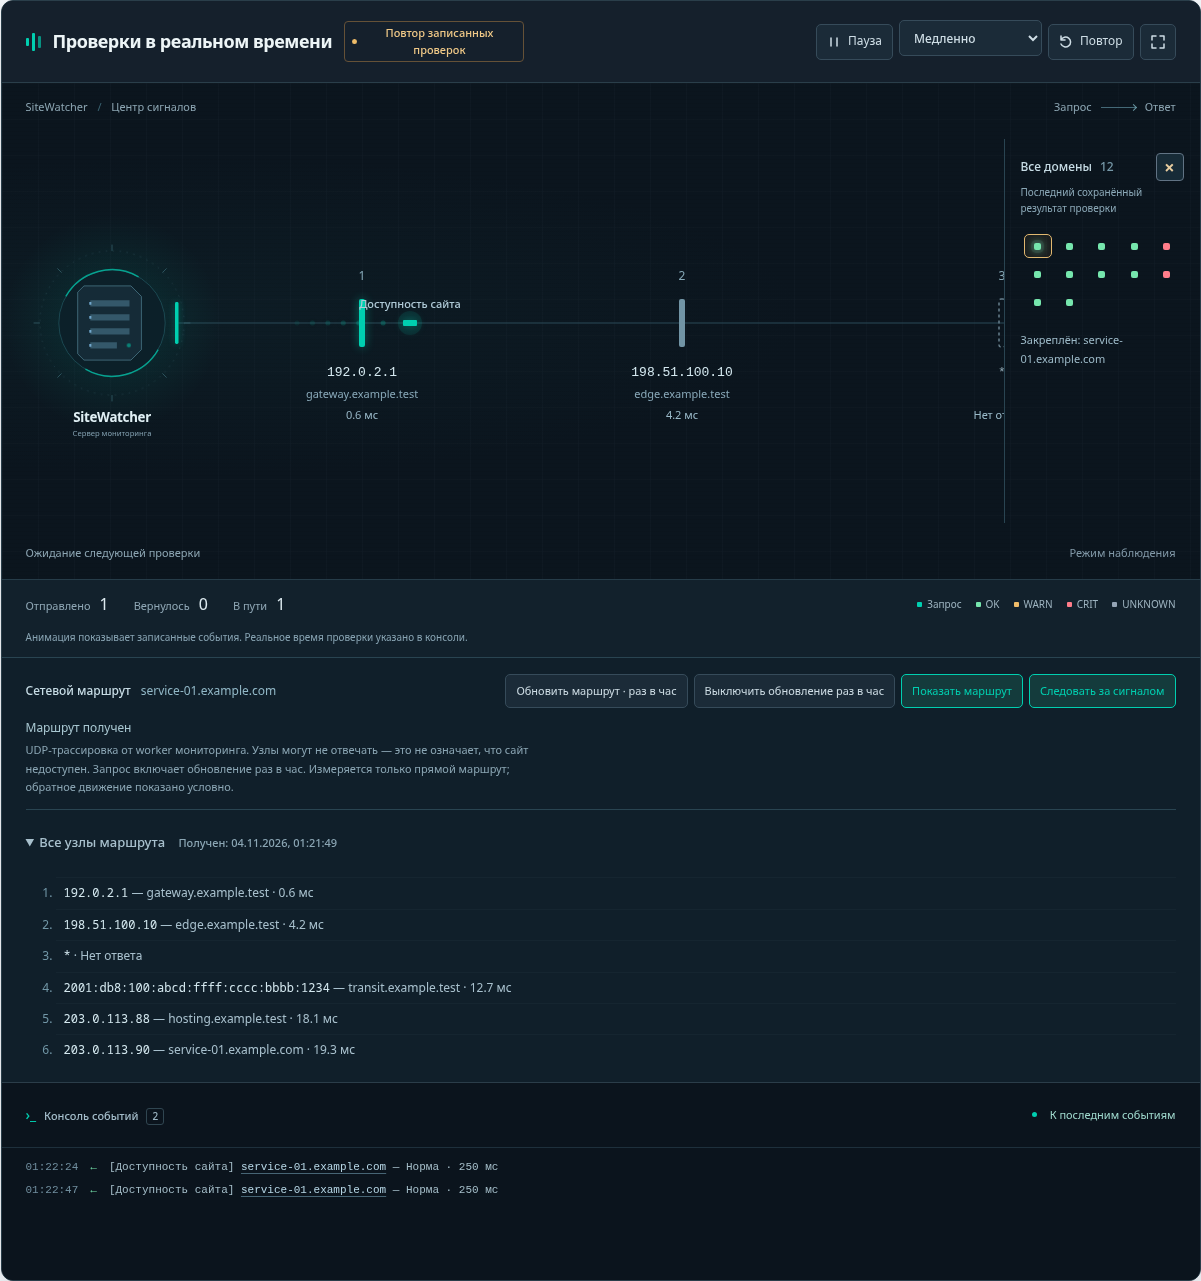
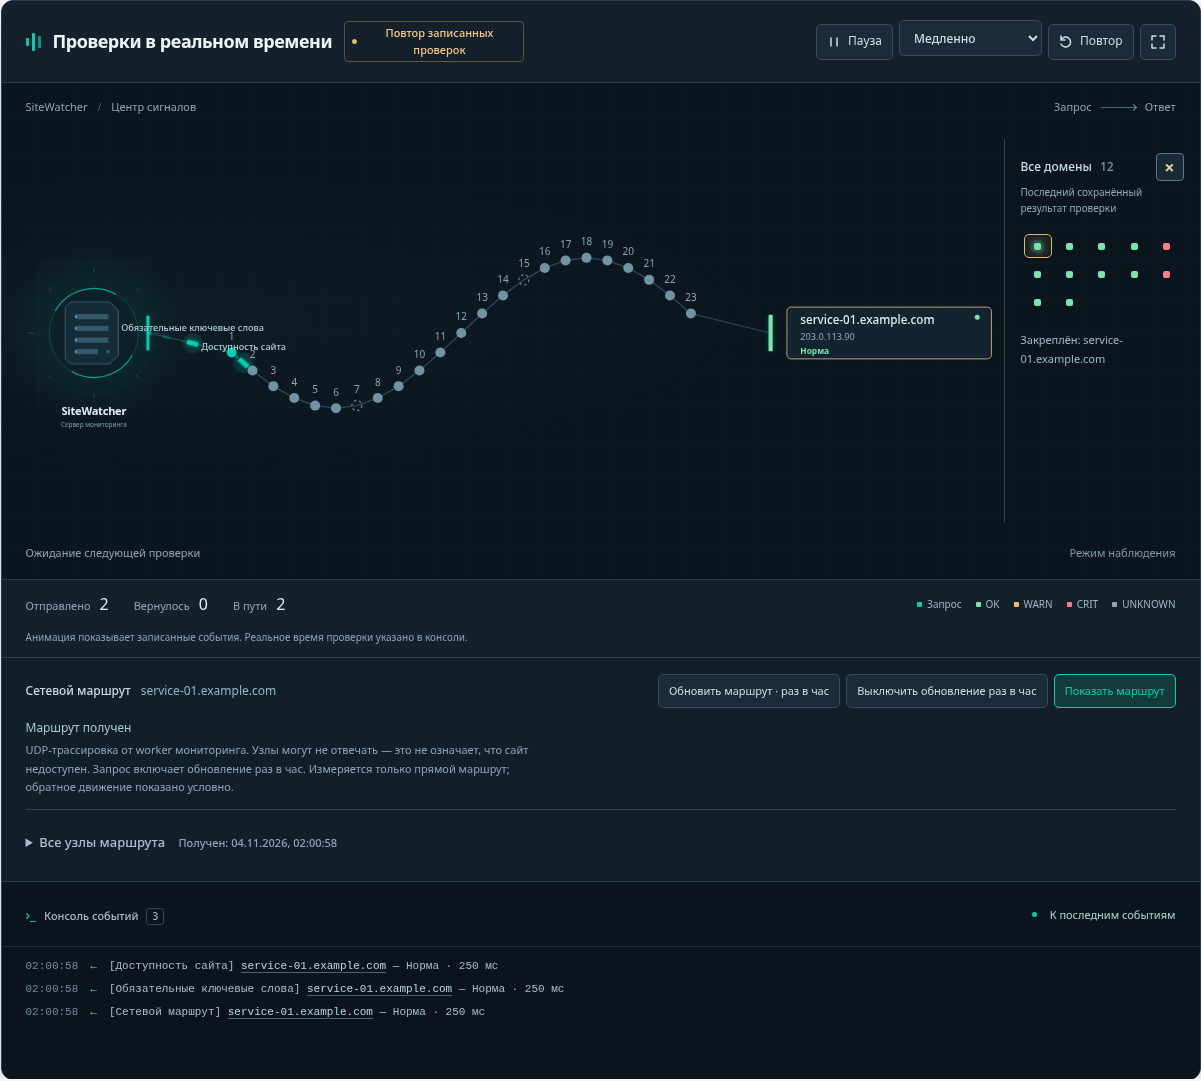
fix: fit network routes into a single scene

diff --git a/sitewatcher/webapp/static/sitewatcher/route_view.js b/sitewatcher/webapp/static/sitewatcher/route_view.js
@@ -16,7 +16,6 @@
       this.domains = new Map();
       this.selectedName = null;
       this.desired = false;
-      this.following = true;
       this.active = false;
       this.geometry = null;
       this.signature = '';
@@ -31,22 +30,7 @@
       this.find('[data-route-disable]')?.addEventListener('click', () => this.save('disable'));
       this.find('[data-route-toggle]')?.addEventListener('click', () => {
         this.desired = !this.desired;
-        this.following = true;
-        this.render();
-      });
-      this.find('[data-route-follow]')?.addEventListener('click', () => {
-        this.following = true;
-        this.paintFollow();
-      });
-      const suspend = () => {
-        this.following = false;
-        this.paintFollow();
-      };
-      this.scroll?.addEventListener('wheel', suspend, {passive: true});
-      this.scroll?.addEventListener('touchstart', suspend, {passive: true});
-      this.scroll?.addEventListener('pointerdown', suspend, {passive: true});
-      this.scroll?.addEventListener('keydown', event => {
-        if (['ArrowLeft', 'ArrowRight', 'Home', 'End', 'PageUp', 'PageDown'].includes(event.key)) suspend();
+          this.render();
       });
       this.paintControls();
     }
@@ -61,7 +45,6 @@
     select(name) {
       if (this.selectedName !== name) this.message = '';
       this.selectedName = name || null;
-      this.following = true;
       this.render();
     }
     reset() {
@@ -70,10 +53,14 @@
       this.selectedName = null;
       this.domains.clear();
       this.desired = false;
-      this.following = true;
       this.message = '';
       this.render();
       if (this.scroll) this.scroll.scrollLeft = 0;
+    }
+    resize(width) {
+      if (width <= 0 || this.compact === (width < 700)) return;
+      this.compact = width < 700;
+      this.render();
     }
     route() { return this.domains.get(this.selectedName)?.route; }
     hops() {
@@ -90,7 +77,7 @@
       const hops = this.hops();
       const active = Boolean(this.desired && this.selectedName && hops.length && this.svg);
       const result = route?.result;
-      const signature = active ? JSON.stringify([this.selectedName, result]) : '';
+      const signature = active ? JSON.stringify([this.selectedName, result, Boolean(this.compact)]) : '';
       const changed = this.active !== active || this.signature !== signature;
       const previousGeometry = this.geometrySignature || '';
       this.active = active;
@@ -111,11 +98,16 @@
       // A responding destination belongs to the existing domain card, not a second router.
       const routers = result.reached && hops.at(-1).ip === result.destination_ip
         ? hops.slice(0, -1) : hops;
-      const hub = {x: 110, y: 200, scale: .7};
+      const compact = Boolean(this.compact);
+      const hub = compact ? {x: 80, y: 75, scale: .65} : {x: 110, y: 240, scale: .7};
+      const target = compact ? {x: 350, y: 550} : {x: 940, y: 240};
       const points = [{x: hub.x + 95 * hub.scale, y: hub.y}];
       routers.forEach((hop, index) => {
-        const x = 360 + index * 320;
-        const y = hub.y;
+        const fraction = (index + 1) / (routers.length + 1);
+        const row = Math.floor(index / 4);
+        const column = row % 2 ? 3 - index % 4 : index % 4;
+        const x = compact ? 180 + column * 110 : 250 + fraction * 600;
+        const y = compact ? 200 + row * 50 : hub.y + Math.sin(fraction * Math.PI * 2) * 90;
         points.push({x, y});
         const group = svgElement('g', {class: 'scene-route-hop', transform: `translate(${x} ${y})`});
         if (!hop.ip) group.classList.add('is-silent');
@@ -124,20 +116,21 @@
           ? `${hop.rtt_ms.toFixed(1)} ${this.text('ms')}` : this.text('noResponse');
         group.append(
           svgElement('title', {}, `${this.text('hop')} ${hop.ttl}: ${ip} ${hop.hostname || ''} · ${rtt}`),
-          svgElement('rect', {class: 'scene-route-paddle', x: -3, y: -24, width: 6, height: 48, rx: 2}),
-          svgElement('text', {class: 'scene-route-ttl', y: -43, 'text-anchor': 'middle'}, String(hop.ttl)),
-          svgElement('text', {class: 'scene-route-ip', y: 53, 'text-anchor': 'middle'}, ip),
-          svgElement('text', {class: 'scene-route-ptr', y: 75, 'text-anchor': 'middle'},
-            hop.hostname?.length > 30 ? `${hop.hostname.slice(0, 27)}…` : hop.hostname || ''),
-          svgElement('text', {class: 'scene-route-rtt', y: 96, 'text-anchor': 'middle'}, rtt)
+          svgElement('circle', {class: 'scene-route-paddle', r: compact ? 8 : 6}),
+          svgElement('text', {class: 'scene-route-ttl', y: compact ? -18 : -15,
+            'text-anchor': 'middle'}, String(hop.ttl))
         );
+        // Dense routes stay readable as dots; full addresses remain in tooltips and the list.
+        if (!compact && routers.length <= 4 && ip.length <= 18) {
+          group.append(svgElement('text', {class: 'scene-route-ip', y: 32,
+            'text-anchor': 'middle'}, ip));
+        }
         this.group.append(group);
         this.paddles.push(group);
       });
-      const target = {x: 380 + routers.length * 320, y: hub.y};
       points.push({x: target.x - 20, y: target.y});
-      this.geometry = {width: target.x + 300, height: 420, hub, target, points,
-        destination_ip: result.destination_ip || null};
+      this.geometry = {width: compact ? 620 : 1200, height: compact ? 640 : 480,
+        compact, hub, target, points, destination_ip: result.destination_ip || null};
     }
     paintControls() {
       const route = this.route();
@@ -167,14 +160,6 @@
         if (!route.enabled && route.state !== 'disabled') description += ` · ${this.text('disabled')}`;
       }
       if (state) state.textContent = this.message || description;
-      this.paintFollow();
-    }
-    paintFollow() {
-      const button = this.find('[data-route-follow]');
-      if (!button) return;
-      button.hidden = !this.active;
-      button.setAttribute('aria-pressed', String(this.following));
-      button.textContent = this.text(this.following ? 'follow' : 'followPaused');
     }
     paintList(hops, result) {
       const details = this.find('[data-route-details]');
@@ -253,15 +238,7 @@
         paddle.classList.toggle('is-current', progress !== null
           && Math.abs(progress * segments - index - 1) < .16);
       });
-      if (!this.following || progress === null || !this.scroll || !this.svg) return;
-      const offset = progress * segments;
-      const index = Math.min(segments - 1, Math.floor(offset));
-      const start = this.geometry.points[index];
-      const end = this.geometry.points[index + 1];
-      const x = start.x + (end.x - start.x) * (offset - index);
-      const scale = this.svg.getBoundingClientRect().width / this.geometry.width;
-      const target = Math.max(0, x * scale - this.scroll.clientWidth * .5);
-      this.scroll.scrollLeft += (target - this.scroll.scrollLeft) * .12;
+
     }
   };
 })();

diff --git a/sitewatcher/webapp/static/sitewatcher/activity.css b/sitewatcher/webapp/static/sitewatcher/activity.css
@@ -265,10 +265,10 @@
 .activity-route-details li::marker { color: #7297a7; }
 .activity-route-details code { padding: 0; background: transparent; color: #d4e8ef; font-size: 12px; }
 .activity-field > [data-scene-scroll] { flex: 1 1 0; width: 0; min-width: 0; }
-[data-scene-scroll] { overflow-x: auto; overflow-y: hidden; scrollbar-width: thin; scrollbar-color: #416474 #0b151e; overscroll-behavior-inline: contain; }
+[data-scene-scroll] { overflow-x: hidden; overflow-y: hidden; scrollbar-width: thin; scrollbar-color: #416474 #0b151e; overscroll-behavior-inline: contain; }
 [data-scene-scroll] > .activity-scene { width: 100%; }
 .activity-panel[data-route-active=true] [data-scene-scroll] { align-self: stretch; }
-.activity-panel[data-route-active=true] [data-scene-scroll] > .activity-scene { height: 420px; min-height: 420px; max-width: none; }
+.activity-panel[data-route-active=true] [data-scene-scroll] > .activity-scene { min-height: 350px; max-width: 100%; }
 .activity-panel[data-route-active=true] .scene-node-name { font-size: 14px; }
 .activity-panel[data-route-active=true] .scene-node-meta { font-size: 11px; }
 .activity-panel[data-route-active=true] .scene-node-status { font-size: 10px; }
@@ -297,3 +297,8 @@
 @media (prefers-reduced-motion: reduce) {
   .scene-route-hop.is-current .scene-route-paddle { filter: none; }
 }
+
+.activity-panel[data-route-active=true][data-scene-layout=compact] .scene-node-name { font-size: 22px; }
+.activity-panel[data-route-active=true][data-scene-layout=compact] .scene-node-meta { font-size: 18px; }
+.activity-panel[data-route-active=true][data-scene-layout=compact] .scene-node-status { font-size: 16px; }
+.activity-panel[data-route-active=true][data-scene-layout=compact] .scene-route-ttl { font-size: 16px; }

diff --git a/sitewatcher/webapp/templates/sitewatcher/partials/route_controls.html b/sitewatcher/webapp/templates/sitewatcher/partials/route_controls.html
@@ -19,15 +19,13 @@
     data-no-response="{% translate 'No response' %}"
     data-hop="{% translate 'Hop' %}"
     data-ms="{% translate 'ms' %}"
-    data-follow="{% translate 'Follow signal' %}"
-    data-follow-paused="{% translate 'Resume following signal' %}">
+>
     <div class="activity-route-heading">
         <div class="activity-route-context"><strong>{% translate 'Network route' %}</strong><span data-route-domain></span></div>
         <div class="activity-route-actions" role="group" aria-label="{% translate 'Network route controls' %}">
             <button type="button" class="activity-control" data-route-refresh disabled>{% translate 'Request route · enable hourly updates' %}</button>
             <button type="button" class="activity-control" data-route-disable disabled>{% translate 'Disable hourly updates' %}</button>
             <button type="button" class="activity-control" data-route-toggle aria-pressed="false" disabled>{% translate 'Route view' %}</button>
-            <button type="button" class="activity-control" data-route-follow aria-pressed="true" hidden>{% translate 'Follow signal' %}</button>
         </div>
     </div>
     <p class="activity-route-state" data-route-state role="status" aria-live="polite">{% translate 'Select a domain in the map to inspect its route.' %}</p>

diff --git a/sitewatcher/webapp/static/sitewatcher/activity.js b/sitewatcher/webapp/static/sitewatcher/activity.js
@@ -370,7 +370,7 @@
   };
   const fillReplay = () => {
     const completed = recent().filter(event => event.phase === 'finished'
-      && (!routeView?.active || event.domain === selectedName)).slice(0, routeView?.active ? 1 : 6).reverse();
+      && (!routeView?.active || event.domain === selectedName)).slice(0, routeView?.active ? 3 : 6).reverse();
     completed.forEach(event => enqueue(event, true));
     updateCounters();
     wake();
@@ -456,10 +456,11 @@
     }
   }
   const layout = () => {
+    routeView?.resize(canvas.clientWidth);
     const focused = routeView?.active ? routeView.geometry : null;
-    const next = !focused && canvas.clientWidth < 950;
-    svg.style.width = focused ? `${focused.width}px` : '';
-    svg.style.height = focused ? `${focused.height}px` : '';
+    const next = focused ? focused.compact : canvas.clientWidth < 950;
+    svg.style.width = focused ? '100%' : '';
+    svg.style.height = focused ? `${focused.compact ? 400 : 420}px` : '';
     if (compact !== next) {
       compact = next;
       // Slots are stable within each layout; pin active domains before rebuilding on resize.
